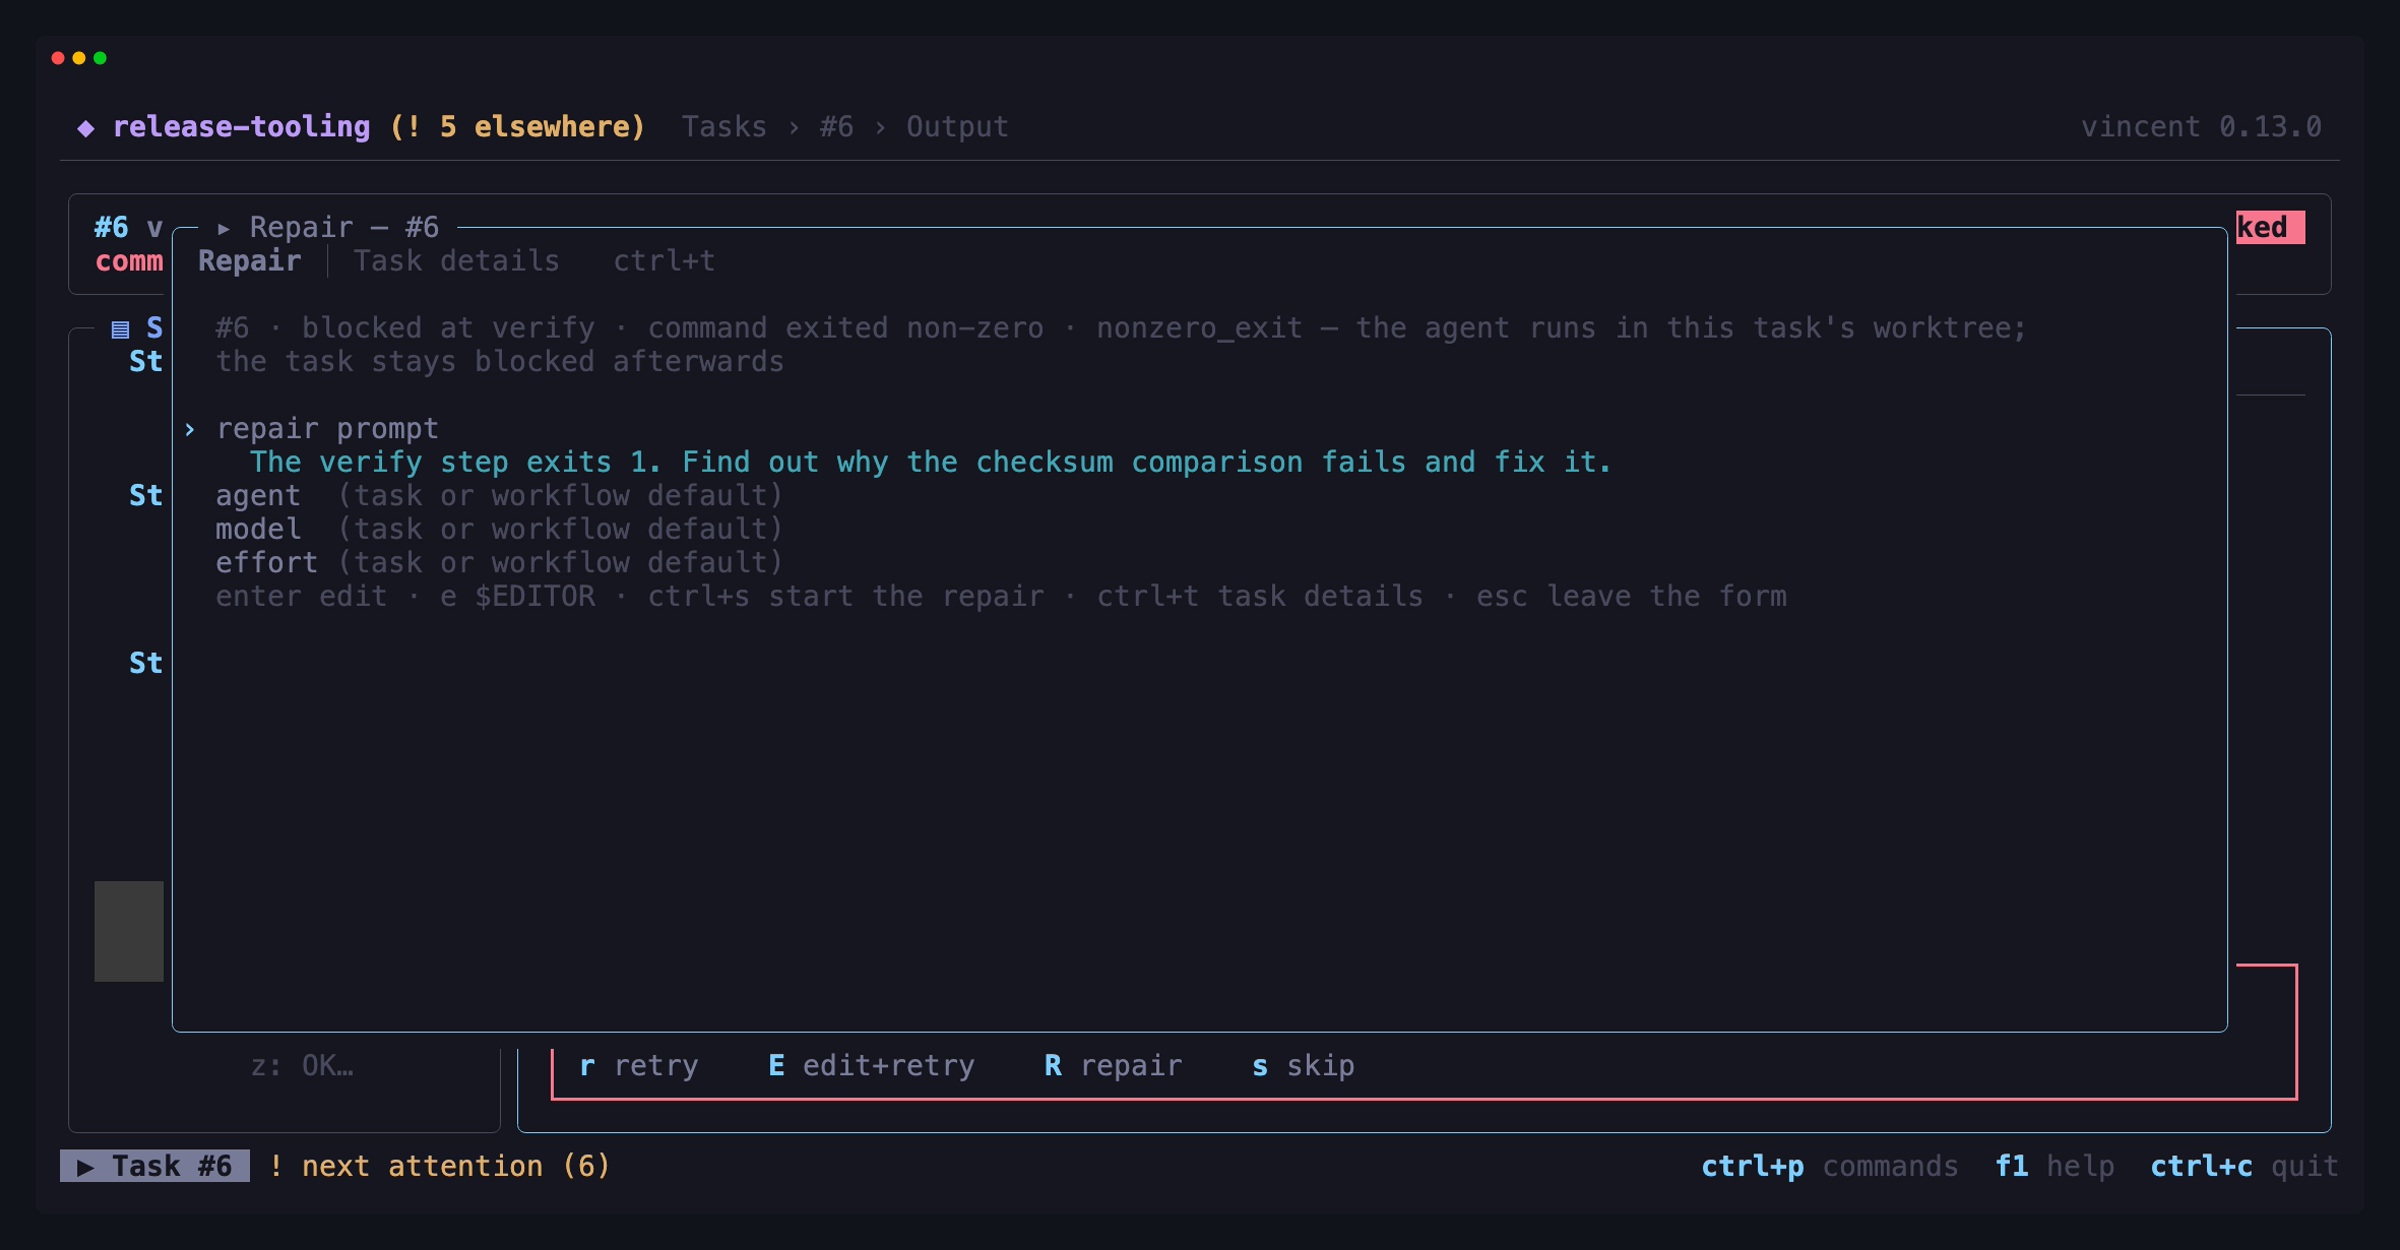
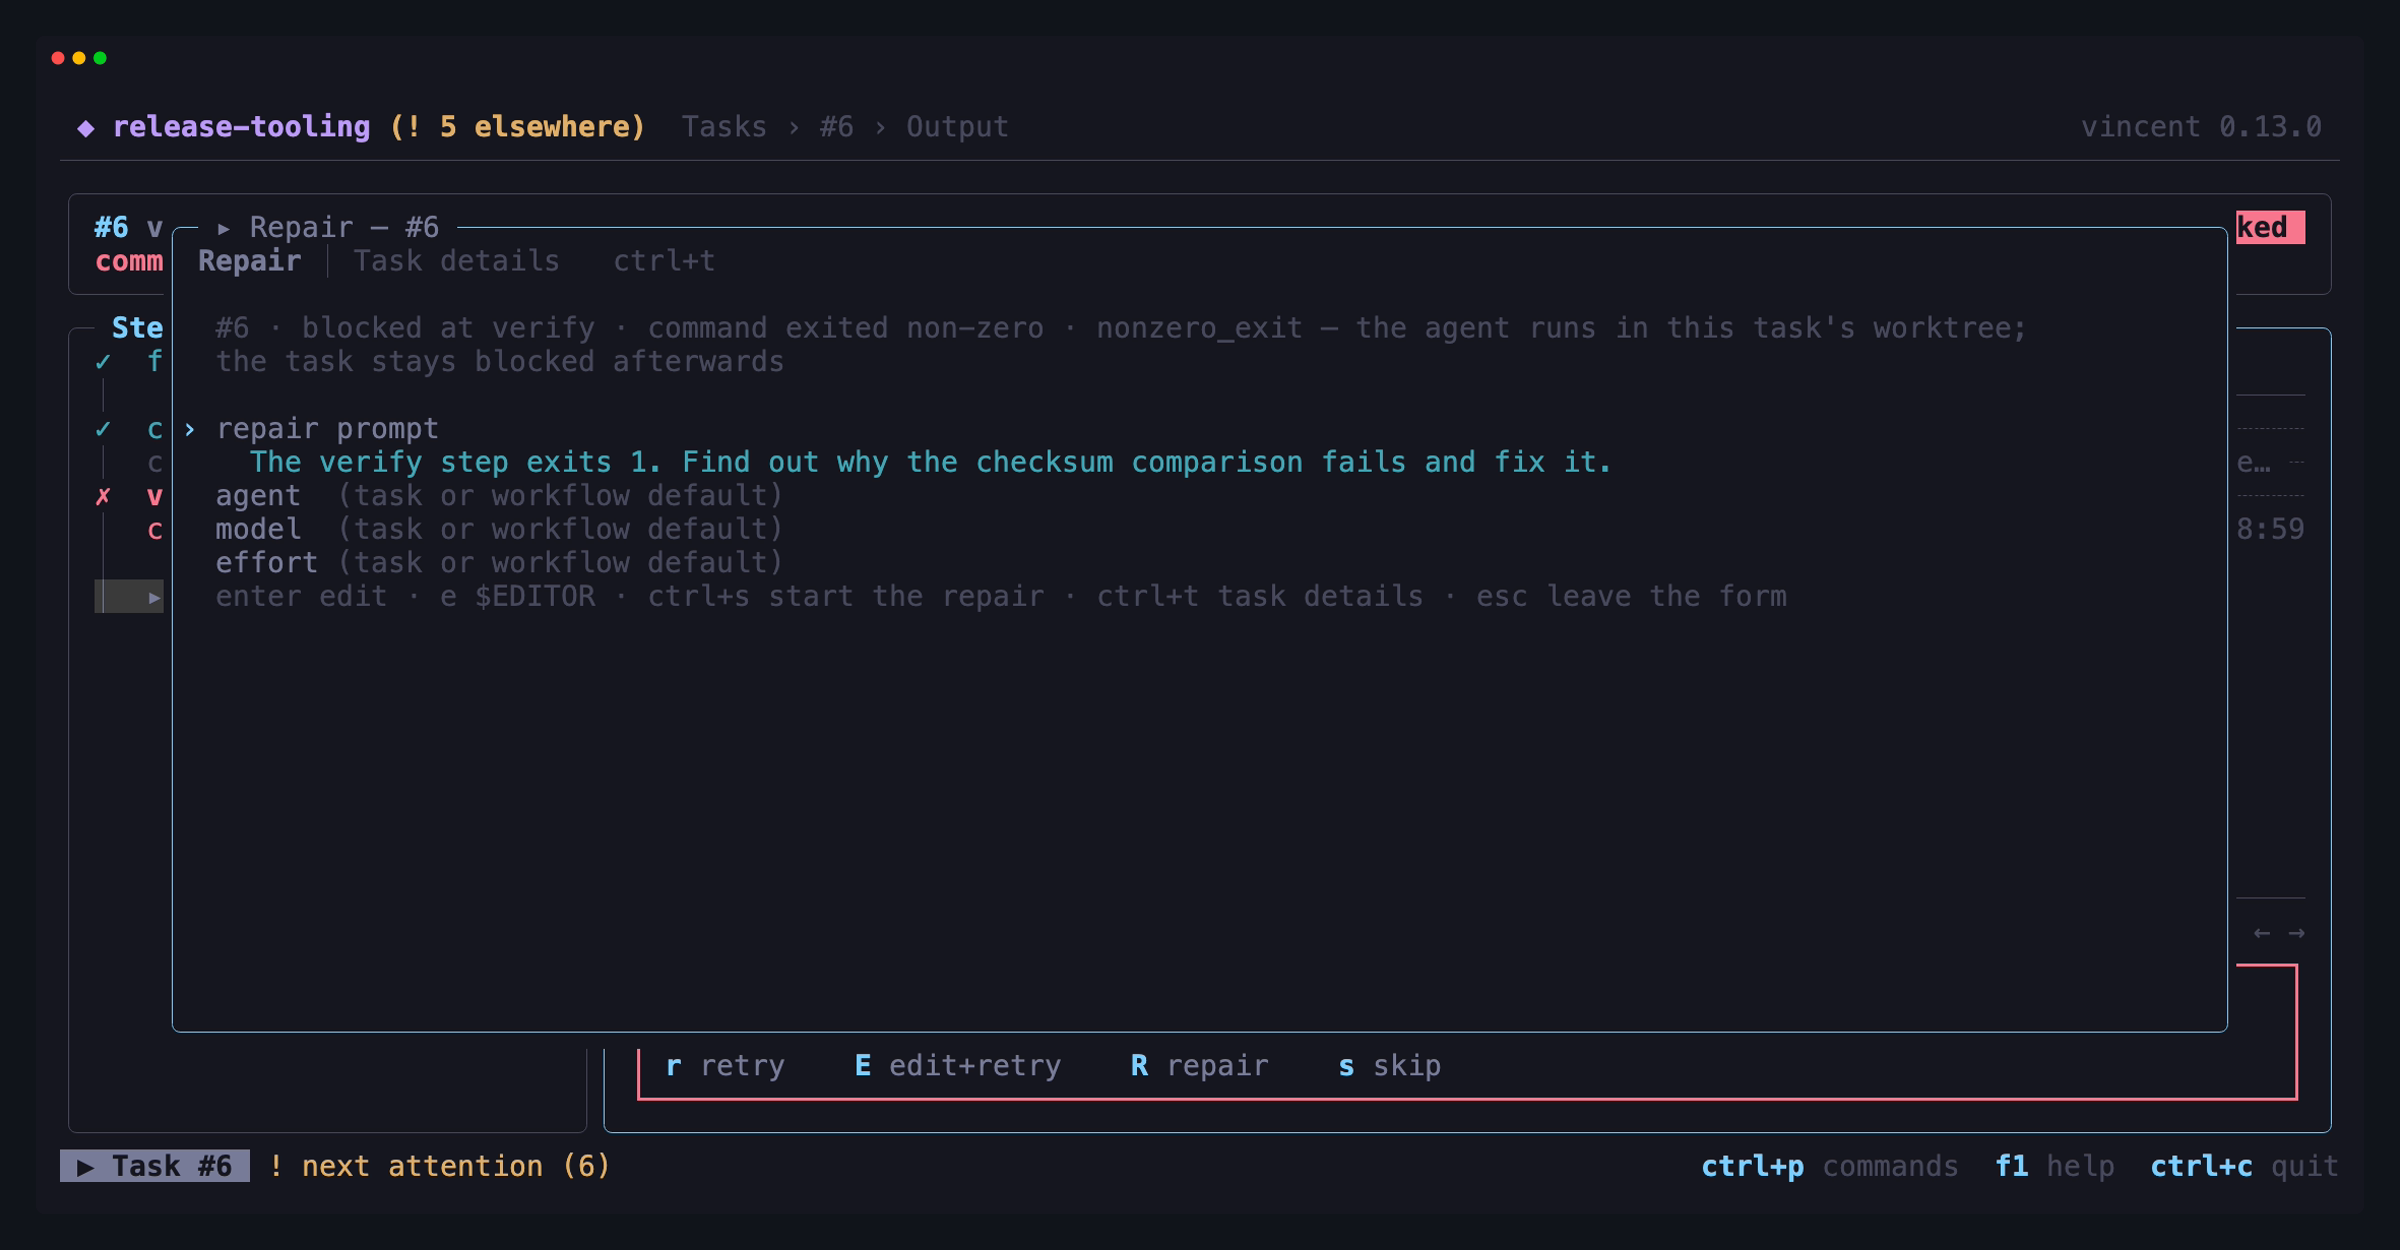
docs: re-capture the task workspace screenshots and close task 164

diff --git a/docs/guides/tui.md b/docs/guides/tui.md
@@ -52,7 +52,8 @@ it will download, installs the font for your user, then shows you sample icons a
 turns them on only if you say they look right.
 
 `enter` opens the selected task in a separate full-screen workspace, on its
-**Overview**. A band across the top names the task, its state, its step, its
+**Overview** — or, from 130 columns, where the steps are beside the tabs, on
+**Output**. A band across the top names the task, its state, its step, its
 workflow, its branch and the issue it is linked to — `i` opens that issue from
 any tab, and `esc` there brings you back. From 130 columns the steps are a
 rail on the left. The tabs are **Overview**, **Output**, **Diff**, **Step
@@ -581,11 +582,13 @@ snapshot. `pgup`/`pgdn` scroll the Overview down to it, and the command
 palette's *open the task's details, section by section* opens the inspector
 that reads it one section at a time; nothing there edits anything.
 
-![The Overview scrolled down to the task's document on a task at its gate,
-with its description, fields and the chats opened on it](../assets/tui-task-details.png)
+![The Task Details inspector on a task at its gate: the section sidebar on the
+left with Chats selected, and on the right the two chats opened on this task,
+newest first, both closed, with their agent, when they started and their
+titles](../assets/tui-task-details.png)
 
-![The Overview of a task started from an imported issue, scrolled down to the
-document's Issue section: the vincent issue and its title, its state, its
+![The Task Details inspector on a task started from an imported issue, with
+the Issue section selected: the vincent issue and its title, its state, its
 GitHub reference acme/web#142 and its URL](../assets/tui-task-issue.png)
 
 Its **GitHub pull request** section follows the captured issue and shows one of

diff --git a/docs/tasks/164-task-workspace-redesign.md b/docs/tasks/164-task-workspace-redesign.md
@@ -1,6 +1,6 @@
 # 164 — Task workspace redesign: a steps rail, plain tabs, an Output feed, a retouched Diff and an Overview of cards
 
-**Status:** 🔄 in progress (8/9) · **Opened:** 2026-11-20
+**Status:** ✅ done (9/9) · **Opened:** 2026-11-20
 
 The task workspace has the shape the chat and issue views had before their
 redesigns: a steps pane that spends three rows per attempt and wraps output
@@ -71,11 +71,11 @@ Conventions for this file are in [the tasks README](README.md).
   for the diff's `step_run` and the step-run fields; §5 for the new columns;
   `docs/reference/` key tables (from `internal/tui/bindings.go`), API and the
   task guide; `CHANGELOG.md`; an assertion for the per-step diff in a gate.
-- [~] **164.9** Re-capture every `docs/assets/tui-task-*.png`, `tui-diff.png`,
+- [x] **164.9** Re-capture every `docs/assets/tui-task-*.png`, `tui-diff.png`,
   `tui-lane-*.png` and `tui-task-steps-lanes.png` with
   `scripts/screenshots.sh`, and drop any shot whose tab no longer exists.
 
-Tasks 164.1–164.8 done ✓ 2026-11-20; the per-step range landed as migration
+Tasks 164.1–164.9 done ✓ 2026-11-20; the per-step range landed as migration
 0064 (master's 0062 and this branch's lane migration, renumbered 0063, came
 first).
 

diff --git a/docs/tasks/README.md b/docs/tasks/README.md
@@ -177,7 +177,7 @@ the living engineering specification records implementation contracts.
 | [161](161-chat-first-message-and-rename.md) | Start a chat from its first message, rename chats, and choose the agent for a chat on a task or issue | ✅ done (6/6) |
 | [162](162-chat-run-settings-between-turns.md) | Change a chat's model, effort and permission mode between turns: `PATCH /v1/chats/{id}`, per-turn overrides, `vincent chat set`, `alt+p` and `shift+tab` | ✅ done (6/6) |
 | [163](163-chat-editor-and-markdown.md) | Write a chat message in `$EDITOR`, and open the conversation as Markdown | 🔄 in progress (2/3) |
-| [164](164-task-workspace-redesign.md) | Task workspace redesign: steps rail, plain tabs, Output feed, Diff and Overview | 🔄 in progress (8/9) |
+| [164](164-task-workspace-redesign.md) | Task workspace redesign: steps rail, plain tabs, Output feed, Diff and Overview | ✅ done (9/9) |
 
 ## How to add and update a task document
 

diff --git a/docs/spec.md b/docs/spec.md
@@ -16619,7 +16619,8 @@ stream for the live tail.
    and the Overview. **The tabs are Overview, Output, Diff, Step details,
    Workflow and Pull request** (the last only when one is linked), cycled with
    `tab`/`shift+tab` and `]`/`[`; below 130 columns Steps keeps a tab after
-   Overview. Task Details is the Overview's lower half, its pull-request keys
+   Overview; a fresh open still lands on Output from 130 columns and on
+   Overview below. Task Details is the Overview's lower half, its pull-request keys
    `o` (`browser`) and `P` came with it, and its section-by-section inspector
    is a palette row, on the strip only while open. A tab may carry a marker:
    the whole task's diff size on Diff, from the Diff tab's or the outcome
